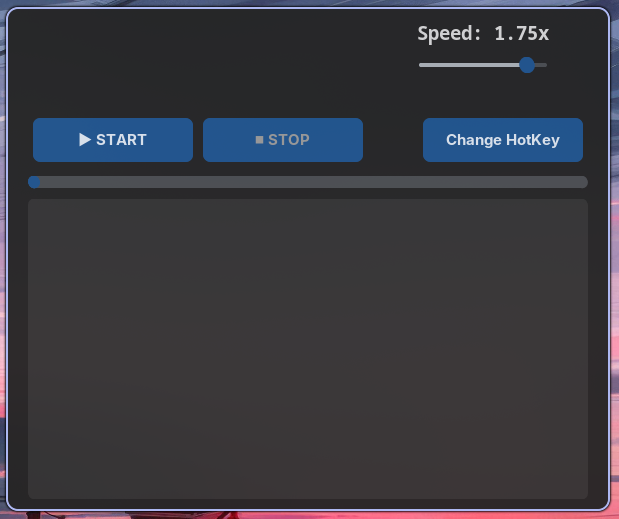
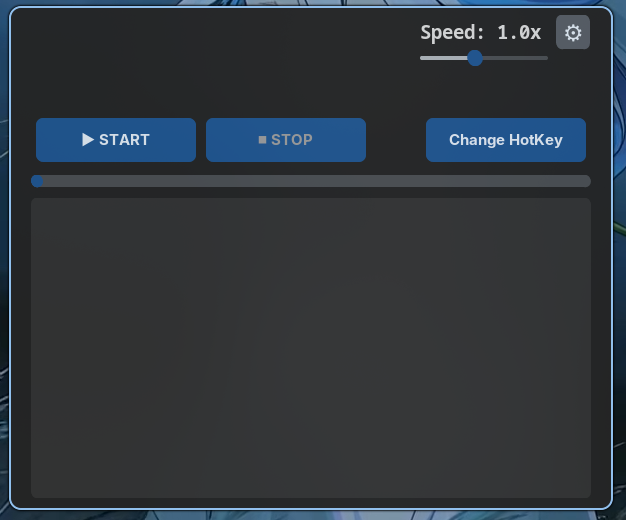
Readme update

diff --git a/README.md b/README.md
@@ -49,6 +49,7 @@ re
 + Установка горячей клавиши
 + Настройка скорости
 + Шкала времени, которая отображает степень выполнения текущей мелодии
++ Расширенные настройки
 
 ## Руководство по использованию `Windows`
 1. Скачайте exe-файл из релиза проекта или сделайте билд сами

diff --git a/assets/readme/README_EN.md b/assets/readme/README_EN.md
@@ -50,6 +50,7 @@ re
 + Custom hotkey binding
 + Playback speed configuration
 + Progress bar displaying current track completion
++ Advanced settings
 
 ## User Guide for `Windows`
 1. Download the executable from the project releases, or build it yourself
